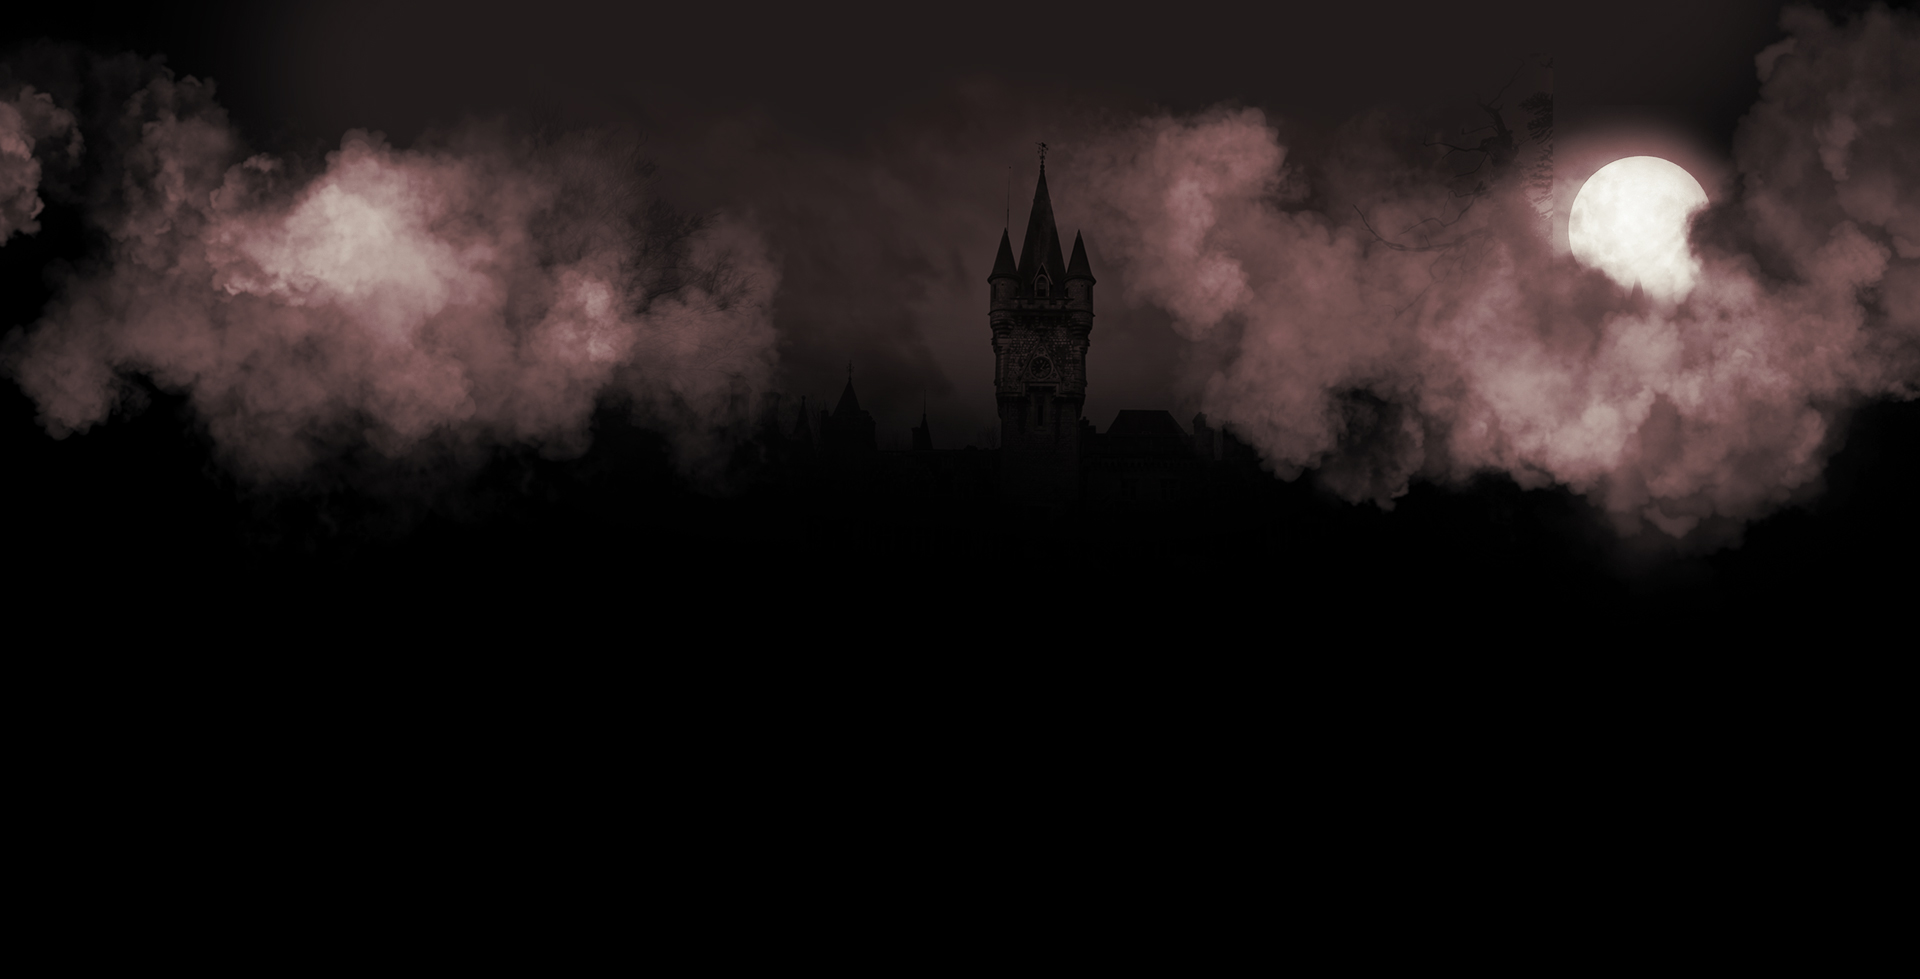
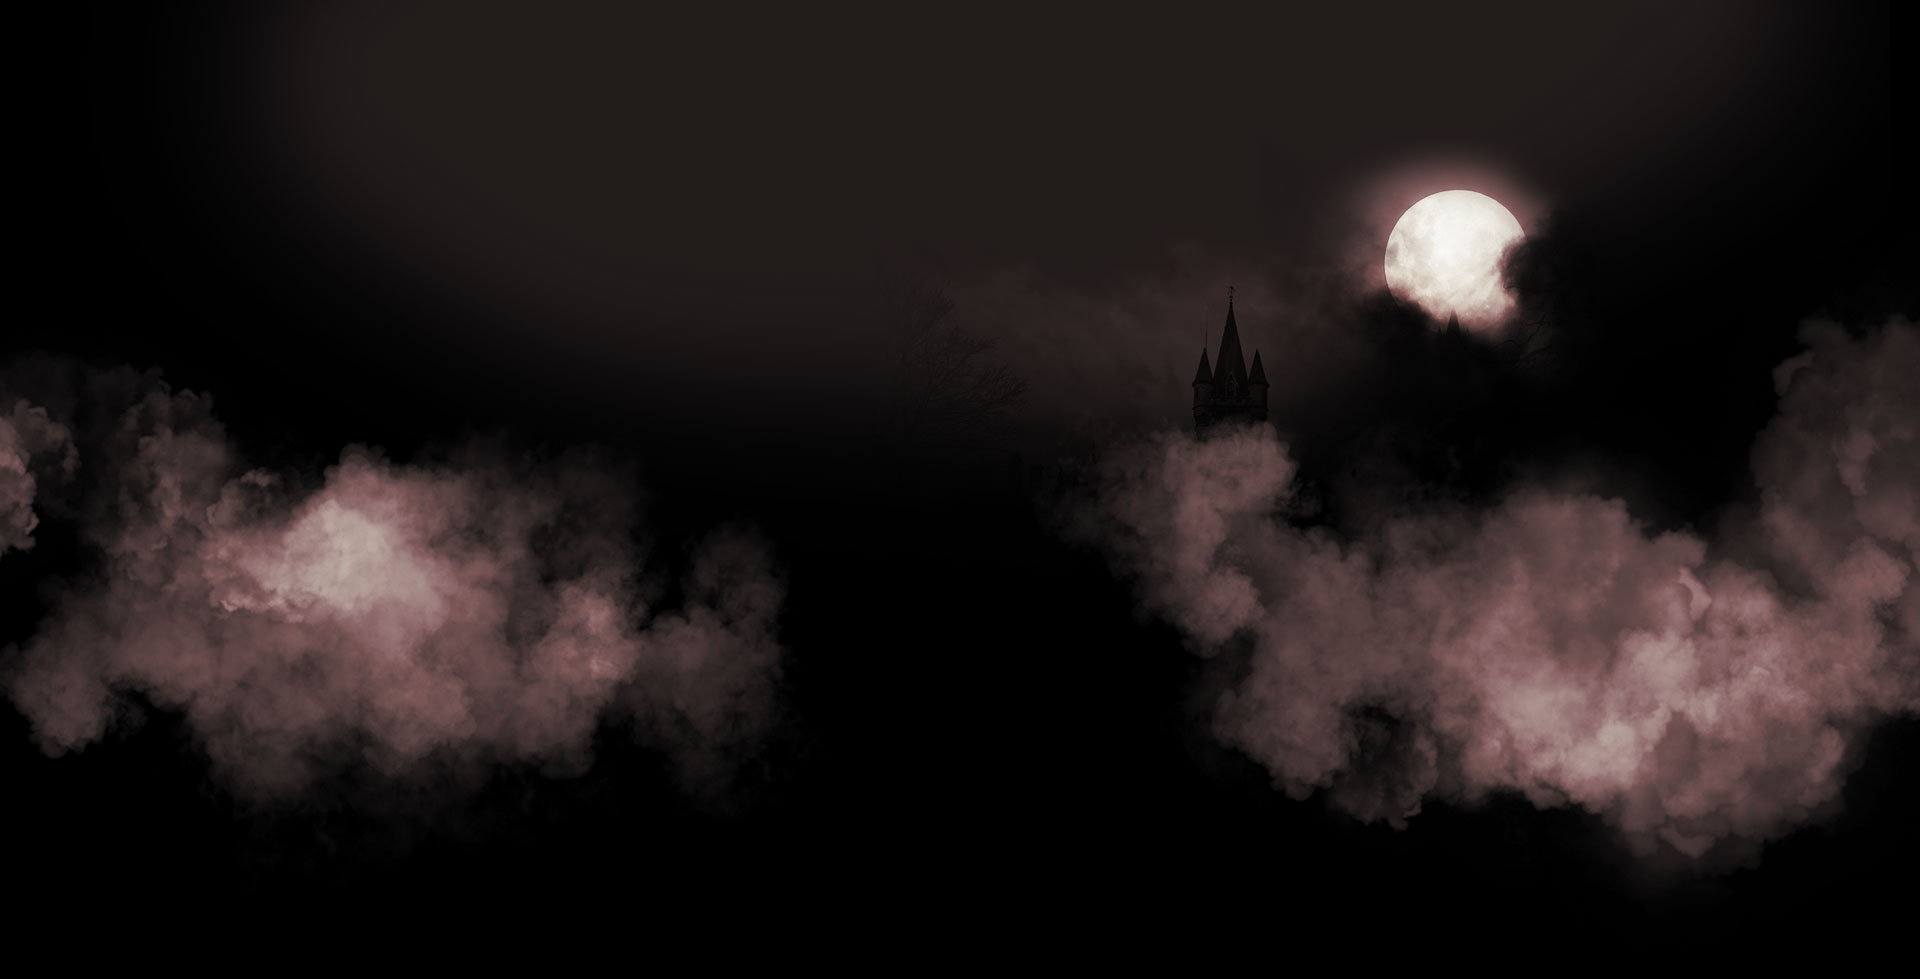
h

diff --git a/src/App.js b/src/App.js
@@ -54,9 +54,9 @@ function App() {
             </div>
           </section>
         </div>
-        <section className='relative overflow-hidden block w-full h-[150vh]'>
+        <section className='relative overflow-hidden block w-full h-[130vh]'>
           <div className='w-full h-full absolute flex items-center justify-center'>
-            <img className='w-full h-full max-h-full max-w-full object-cover align-top' src={process.env.PUBLIC_URL + 'img/night_bg.jpg'} alt='night'/>
+            <img className='w-full h-full max-h-full max-w-full object-cover align-top object-[60%_center]' src={process.env.PUBLIC_URL + 'img/night_bg.jpg'} alt='night'/>
           </div>
           <div className='mt-[160px] relative mx-auto w-[90%]'>
             <h2 className='text-white text-[120px] tracking[-0.03em] flex justify-end font-poppins'>
@@ -97,7 +97,7 @@ function App() {
                       <img className='absolute opacity-0 transition-opacity duration-300 w-full h-full max-h-full object-cover max-w-full align-top' src={process.env.PUBLIC_URL + 'img/emmawatson2.jpg'} alt='herry porter2'/>
                     </div>
                     <div className='absolute left-0 bottom-0 h-[calc(120/920*var(--vh,1vh)*100)] w-full bg-gradient-to-b from-transparent to-black'>
-                      <img className='pt-9 pl-6' src={process.env.PUBLIC_URL + 'img/hermino_text.png'} alt='hermino_text'/>
+                      <img className='pt-12 pl-6' src={process.env.PUBLIC_URL + 'img/hermione_text.png'} alt='hermino_text'/>
                     </div>
                   </div>
                 </div>
@@ -108,7 +108,7 @@ function App() {
                       <img className='absolute opacity-0 transition-opacity duration-300 w-full h-full max-h-full object-cover max-w-full align-top' src={process.env.PUBLIC_URL + 'img/ron2.jpg'} alt='ron'/>
                     </div>
                     <div className='absolute left-0 bottom-0 h-[calc(120/920*var(--vh,1vh)*100)] w-full bg-gradient-to-b from-transparent to-black'>
-                      <img className='pt-9 pl-6' src={process.env.PUBLIC_URL + 'img/hermino_text.png'} alt='hermino_text'/>
+                      <img className='pt-12 pl-6' src={process.env.PUBLIC_URL + 'img/hermino_text.png'} alt='hermino_text'/>
                     </div>  
                   </div>
                 </div>
